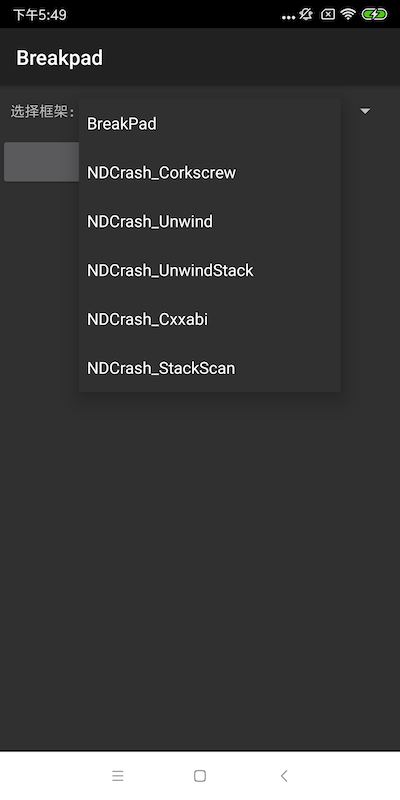
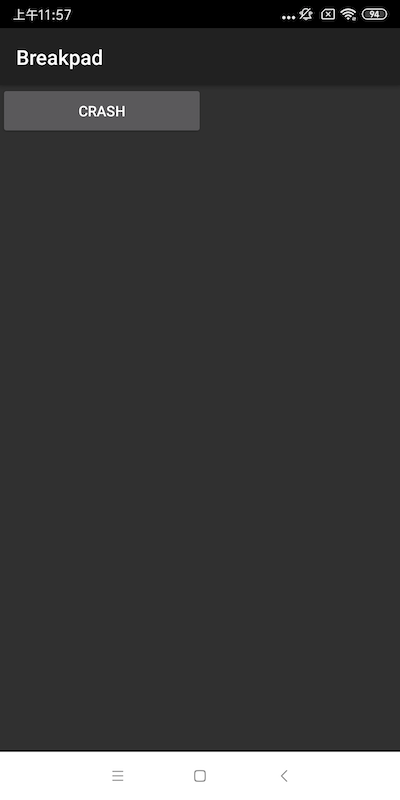
完善例子

diff --git a/sample/src/main/java/com/dodola/breakpad/MainActivity.java b/sample/src/main/java/com/dodola/breakpad/MainActivity.java
@@ -1,68 +1,27 @@
 package com.dodola.breakpad;
 
-import java.io.File;
-
-import android.Manifest;
 import android.app.Activity;
-import android.content.pm.PackageManager;
 import android.os.Bundle;
-import android.os.Environment;
-import android.util.Log;
 import android.view.View;
 
-import androidx.core.app.ActivityCompat;
-import androidx.core.content.ContextCompat;
-
-
 public class MainActivity extends Activity {
-  private static final int WRITE_EXTERNAL_STORAGE_REQUEST_CODE = 100;
-
   static {
     System.loadLibrary("crash-lib");
   }
-
-  private File externalReportPath;
 
   @Override
   protected void onCreate(Bundle savedInstanceState) {
     super.onCreate(savedInstanceState);
     setContentView(R.layout.activity_main);
 
-
-    if (ContextCompat.checkSelfPermission(this, Manifest.permission.WRITE_EXTERNAL_STORAGE)
-        != PackageManager.PERMISSION_GRANTED) {
-      ActivityCompat.requestPermissions(
-          this,
-          new String[] {Manifest.permission.WRITE_EXTERNAL_STORAGE},
-          WRITE_EXTERNAL_STORAGE_REQUEST_CODE);
-    } else {
-      initExternalReportPath();
-    }
-
     findViewById(R.id.crash_btn)
         .setOnClickListener(
             new View.OnClickListener() {
               @Override
               public void onClick(View view) {
-                  crash();
-                  // copy core dump to sdcard
+                crash();
               }
             });
-  }
-
-  @Override
-  public void onRequestPermissionsResult(
-      int requestCode, String[] permissions, int[] grantResults) {
-    super.onRequestPermissionsResult(requestCode, permissions, grantResults);
-    initExternalReportPath();
-  }
-
-  private void initExternalReportPath() {
-    externalReportPath = new File(Environment.getExternalStorageDirectory(), "crashDump");
-    if (!externalReportPath.exists()) {
-      externalReportPath.mkdirs();
-    }
-    Log.d("xxxxx", "reportPath:" + externalReportPath);
   }
 
   public native void crash();

diff --git a/sample/src/main/java/com/dodola/breakpad/SampleApplication.java b/sample/src/main/java/com/dodola/breakpad/SampleApplication.java
@@ -1,18 +1,22 @@
 package com.dodola.breakpad;
 
-import java.io.File;
-
 import android.app.Application;
 import android.content.Context;
 
 import com.sample.breakpad.BreakpadInit;
 
+import java.io.File;
+
 public class SampleApplication extends Application {
-    public static File breakPadPath;
-    @Override
-    protected void attachBaseContext(final Context base) {
-        super.attachBaseContext(base);
-        breakPadPath = new File(getFilesDir(), "crashDump");
-        BreakpadInit.initBreakpad(breakPadPath.getAbsolutePath());
+  public static File breakPadPath;
+
+  @Override
+  protected void attachBaseContext(final Context base) {
+    super.attachBaseContext(base);
+    breakPadPath = new File(getFilesDir(), "crashDump");
+    if (!breakPadPath.exists()) {
+      breakPadPath.mkdirs();
     }
+    BreakpadInit.initBreakpad(breakPadPath.getAbsolutePath());
+  }
 }

diff --git a/breakpad-build/src/main/cpp/breakpad.cpp b/breakpad-build/src/main/cpp/breakpad.cpp
@@ -32,3 +32,11 @@ Java_com_sample_breakpad_BreakpadInit_initBreakpadNative(JNIEnv *env, jclass typ
 
     env->ReleaseStringUTFChars(path_, path);
 }
+
+JNIEXPORT jint JNICALL JNI_OnLoad(JavaVM *vm, void *reserved) {
+    JNIEnv *env;
+    if (vm->GetEnv((void **) &env, JNI_VERSION_1_6) != JNI_OK) {
+        return JNI_ERR;
+    }
+    return JNI_VERSION_1_6;
+}

diff --git a/README.md b/README.md
@@ -1,19 +1,22 @@
 Chapter01-GEEKTIME
 ======
-例子里集成了[Breakpad](https://github.com/google/breakpad)和 [NDCrash](https://github.com/ivanarh/ndcrash)两套 Crash 抓取框架，用来展示比较流行的几种抓取方式，unwind 机制。
+例子里集成了[Breakpad](https://github.com/google/breakpad) 来获取发生 native crash 时候的系统信息和线程堆栈信息。
 
+编译环境
+=======
+Android Studio 3.2
+CMAKE
+NDK(使用ndk 16-19版本)
 
 项目构建
 =======
 
-例子采用 [CMAKE](https://developer.android.com/ndk/guides/cmake) 来构建 breakpad 和 ndcrash 库, 项目可直接导入 AndroidStudio 运行
+例子采用 [CMAKE](https://developer.android.com/ndk/guides/cmake) 来构建 breakpad  库, 项目可直接导入 AndroidStudio 运行
 
-NDCrash 是一款开源的 Native Crash 捕获框架，为了兼容各个系统版本实现了不同方式的 unwinder。
+例子支持`armeabi-v7a`,`arm64-v8a`,`x86` 三种平台。
 
-例子支持`armeabi-v7a`,`arm64-v8a`,`x86` 三种平台，不过在某些手机上会某些 unwind 方式会失败。
+生成的 crash 都存放在 `/data/data/com.dodola.breakpad/files/crashDump` 下
 
-
-生成的 crash 都存放在 `/data/data/com.dodola.breakpad/files` 或者 `/sdcard/crashDump（给予权限）`下
 
 ![截图](screen.png)
 
